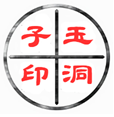
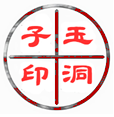
fix: red seal image + exclude cover/title pages from watermark
1. 玉洞子印.png: change black circle frame & cross to red (#B40000)
   so watermark does not obscure text content

2. LfAddWatermarkToDocxBytes: insert section break before 第一章 so
   Section 1 (cover + 流年鑑定書 title page) has no watermark;
   Section 2 (chapters) has seal image watermark;
   Section 3 (seal page) has no watermark

diff --git a/Controllers/ConsultationController.cs b/Controllers/ConsultationController.cs
@@ -4038,59 +4038,79 @@ namespace Ecanapi.Controllers
                     string defId   = mainPart.GetIdOfPart(defaultHdrPart);
                     string emptyId = mainPart.GetIdOfPart(firstHdrPart); // reuse empty header
 
-                    // Convert the page break before the seal page into a next-page section break.
-                    // The seal page identifier: first paragraph after the break containing "算命的真蹄".
                     var allParas = body.Descendants<Paragraph>().ToList();
+
+                    // Step 1: Convert the page break before the seal page into a section break.
+                    // Seal page identified by paragraph containing "算命的真蹄".
                     int sealIdx = allParas.FindIndex(p => p.InnerText.Contains("算命的真蹄"));
                     if (sealIdx > 0)
                     {
-                        // Walk back to find the nearest page-break paragraph
                         for (int i = sealIdx - 1; i >= 0; i--)
                         {
                             bool hasPageBreak = allParas[i].Descendants<Break>()
                                 .Any(b => b.Type != null && b.Type.Value == BreakValues.Page);
                             if (!hasPageBreak) continue;
-
-                            // Inject next-page section break into this paragraph's pPr
                             var para = allParas[i];
                             var pPr  = para.ParagraphProperties ?? para.PrependChild(new ParagraphProperties());
-                            pPr.AppendChild(new SectionProperties(
-                                new SectionType { Val = SectionMarkValues.NextPage }
-                            ));
-                            // Remove the run-level page break (section break handles the page jump)
+                            pPr.AppendChild(new SectionProperties(new SectionType { Val = SectionMarkValues.NextPage }));
                             foreach (var run in para.Elements<Run>().ToList()) run.Remove();
                             break;
                         }
                     }
 
-                    // After possible injection, find inline sectPr(s) and body-level sectPr
+                    // Step 2: Insert a section break paragraph before 【第一章 so that the cover
+                    // page + 流年鑑定書 title page (Section 1) have no watermark.
+                    // Section 2 (chapters) gets the watermark; Section 3 (seal page) gets none.
+                    allParas = body.Descendants<Paragraph>().ToList(); // refresh after step 1
+                    var ch1Para = allParas.FirstOrDefault(p => p.InnerText.StartsWith("【第一章"));
+                    if (ch1Para != null)
+                    {
+                        var sectBreak = new Paragraph(new ParagraphProperties(
+                            new SectionProperties(new SectionType { Val = SectionMarkValues.NextPage })
+                        ));
+                        ch1Para.InsertBeforeSelf(sectBreak);
+                    }
+
+                    // Identify sections by order: inline sectPr[0]=Section1 end, [1]=Section2 end
                     var inlineSectPrs = body.Descendants<SectionProperties>()
                         .Where(sp => sp.Parent is ParagraphProperties)
                         .ToList();
                     var bodySectPr = body.Elements<SectionProperties>().FirstOrDefault();
                     if (bodySectPr == null) { bodySectPr = new SectionProperties(); body.AppendChild(bodySectPr); }
 
-                    if (inlineSectPrs.Count > 0)
+                    void ClearHeaders(SectionProperties sp) {
+                        foreach (var hr in sp.Elements<HeaderReference>().ToList()) hr.Remove();
+                        sp.GetFirstChild<TitlePage>()?.Remove();
+                    }
+                    void SetHeader(SectionProperties sp, string headerId) =>
+                        sp.InsertAt(new HeaderReference { Type = HeaderFooterValues.Default, Id = headerId }, 0);
+
+                    if (inlineSectPrs.Count >= 2)
                     {
-                        // Watermark + TitlePage on content section (Ch.1-Ch.7)
-                        foreach (var sp in inlineSectPrs)
-                        {
-                            foreach (var hr in sp.Elements<HeaderReference>().ToList()) hr.Remove();
-                            if (sp.GetFirstChild<TitlePage>() == null) sp.InsertAt(new TitlePage(), 0);
-                            sp.InsertAt(new HeaderReference { Type = HeaderFooterValues.Default, Id = defId },   0);
-                            sp.InsertAt(new HeaderReference { Type = HeaderFooterValues.First,   Id = emptyId }, 0);
-                        }
-                        // Last page (seal page): explicit empty header, no watermark
-                        foreach (var hr in bodySectPr.Elements<HeaderReference>().ToList()) hr.Remove();
-                        bodySectPr.InsertAt(new HeaderReference { Type = HeaderFooterValues.Default, Id = emptyId }, 0);
+                        // Section 1 (cover + title pages): no header
+                        ClearHeaders(inlineSectPrs[0]);
+                        // Section 2 (chapters with watermark)
+                        ClearHeaders(inlineSectPrs[1]);
+                        SetHeader(inlineSectPrs[1], defId);
+                        // Section 3 (seal page): no header
+                        ClearHeaders(bodySectPr);
+                        SetHeader(bodySectPr, emptyId);
+                    }
+                    else if (inlineSectPrs.Count == 1)
+                    {
+                        // Only seal section break found — apply watermark to that section
+                        ClearHeaders(inlineSectPrs[0]);
+                        SetHeader(inlineSectPrs[0], defId);
+                        ClearHeaders(bodySectPr);
+                        SetHeader(bodySectPr, emptyId);
                     }
                     else
                     {
-                        // Fallback: watermark on all pages except cover
-                        foreach (var hr in bodySectPr.Elements<HeaderReference>().ToList()) hr.Remove();
-                        if (bodySectPr.GetFirstChild<TitlePage>() == null) bodySectPr.InsertAt(new TitlePage(), 0);
-                        bodySectPr.InsertAt(new HeaderReference { Type = HeaderFooterValues.Default, Id = defId },   0);
-                        bodySectPr.InsertAt(new HeaderReference { Type = HeaderFooterValues.First,   Id = emptyId }, 0);
+                        // Fallback: watermark on all pages except cover (TitlePage)
+                        ClearHeaders(bodySectPr);
+                        bodySectPr.InsertAt(new TitlePage(), 0);
+                        SetHeader(bodySectPr, defId);
+                        bodySectPr.InsertAt(new HeaderReference { Type = HeaderFooterValues.First, Id = emptyId }, 0);
                     }
 
                     mainPart.Document.Save();